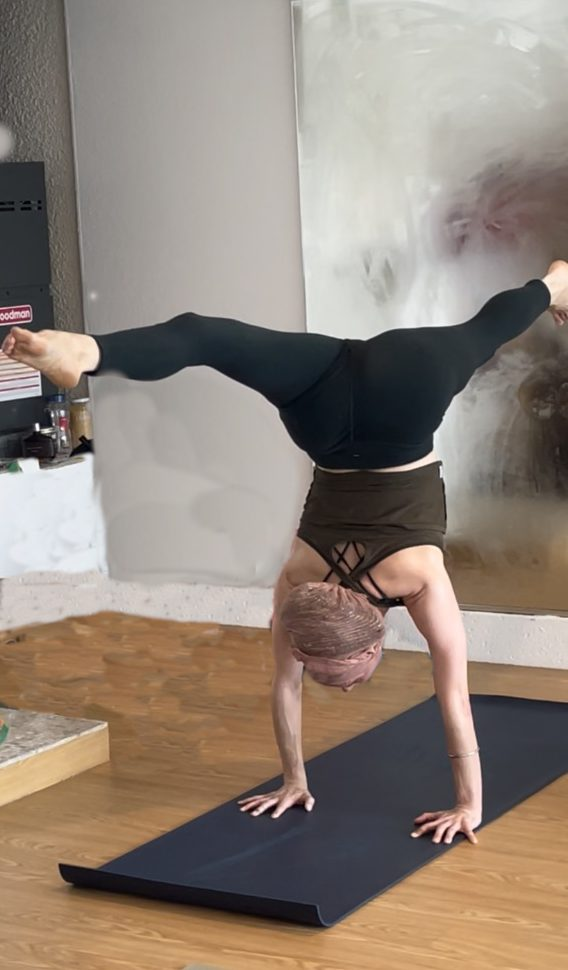
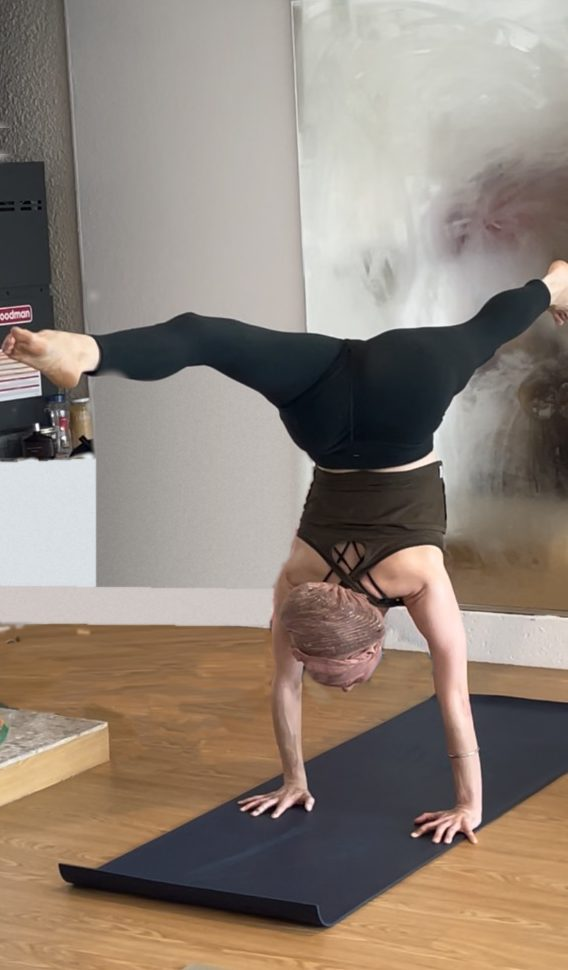
Touch up wall, baseboard and floor in handstand gallery photo

diff --git a/scripts/retouch_handstand.py b/scripts/retouch_handstand.py
@@ -1,0 +1,93 @@
+import sys
+import numpy as np
+from PIL import Image, ImageDraw, ImageFilter
+
+"""Rebuild the wall, baseboard and floor where the bags were painted out of
+the handstand photo. Usage: retouch_handstand.py <cleaned up.png> <retouched.png>"""
+src, out = sys.argv[1], sys.argv[2]
+full = Image.open(src).convert("RGB")
+OX, OY = 182, 130                      # gallery crop origin
+im = full.crop((OX, OY, 750, 1100))
+a = np.asarray(im).astype(float)
+H, W, _ = a.shape
+rng = np.random.default_rng(7)
+
+def noise(sd, blur=1.0):
+    n = rng.normal(0, sd, (H, W)).astype(np.float32)
+    img = Image.fromarray(((n + 128).clip(0, 255)).astype(np.uint8)).filter(ImageFilter.GaussianBlur(blur))
+    return (np.asarray(img).astype(float) - 128)[..., None]
+
+def poly_mask(pts, feather=1.5):
+    m = Image.new("L", (W, H), 0)
+    ImageDraw.Draw(m).polygon(pts, fill=255)
+    return np.asarray(m.filter(ImageFilter.GaussianBlur(feather))).astype(float)[..., None] / 255
+
+def key_not_swaran():
+    mx, mn = a.max(2), a.min(2)
+    luma = a.mean(2)
+    k = ((mx - mn) < 30) & (luma > 125)
+    m = Image.fromarray((k * 255).astype(np.uint8)).filter(ImageFilter.MinFilter(3)).filter(ImageFilter.GaussianBlur(1))
+    return np.asarray(m).astype(float)[..., None] / 255
+
+out_a = a.copy()
+def apply(fill, mask):
+    global out_a
+    out_a = out_a * (1 - mask) + fill * mask
+
+# 1. Grey wall column: per-column colour from the clean part above her legs.
+col = a[150:300, :, :].mean(0)                       # (W,3)
+panel = np.broadcast_to(col[None], (H, W, 3)).copy()
+panel = np.asarray(Image.fromarray(panel.clip(0, 255).astype(np.uint8)).filter(ImageFilter.BoxBlur(6))).astype(float)
+panel += noise(3.5, 0.8)
+pm = poly_mask([(95, 360), (330, 360), (330, 589), (95, 589)], 0.8) * key_not_swaran()
+apply(panel, pm)
+
+# 2. White alcove below the heater shelf: smooth it out.
+white = np.zeros_like(a)
+white[:] = np.array([224, 229, 234])
+grad = np.linspace(0, -10, H)[:, None, None]          # slightly darker going down
+white = white + grad + noise(2.5, 0.8)
+apply(white, poly_mask([(0, 462), (95, 458), (95, 586), (0, 586)], 0.8))
+
+# 3. Baseboard: a clean straight strip.
+base = np.zeros_like(a); base[:] = np.array([207, 199, 195]); base += noise(3, 0.8)
+bm = np.maximum(poly_mask([(0, 585), (300, 589), (300, 627), (0, 623)], 0.7) * key_not_swaran(),
+                poly_mask([(0, 585), (262, 589), (262, 626), (0, 623)], 0.7))
+apply(base, bm)
+# soft shadow line where baseboard meets floor
+shadow = out_a * 0.82
+apply(shadow, poly_mask([(0, 621), (300, 625), (300, 628), (0, 624)], 0.8) * key_not_swaran() * 0.7)
+
+# 4. Floor: mirror clean boards from just below the old bag area upward,
+# stretched sideways (the grain runs left-right, so the stretch doesn't show).
+SEAM = 708                                            # first row of untouched floor
+floor = out_a.copy()
+xs = np.linspace(112, 245, 300).astype(int)           # clean boards between hearth and mat
+for y in range(600, SEAM):
+    sy = SEAM + (SEAM - y)
+    floor[y, 0:300] = a[sy, xs]
+seam_fade = np.ones((H, 1, 1))
+seam_fade[SEAM - 12:SEAM + 4, 0, 0] = np.linspace(1, 0, 16)
+fm = poly_mask([(0, 624), (264, 627), (264, SEAM + 4), (0, SEAM + 4)], 1.5)
+# keep her arm and head: skip skin-tone / dark pixels near her
+mx, mn, luma = a.max(2), a.min(2), a.mean(2)
+skin = (a[..., 0] > 185) & ((a[..., 0] - a[..., 2]) > 25)
+dark = luma < 70
+keep = Image.fromarray(((skin | dark) * 255).astype(np.uint8))
+keep = keep.filter(ImageFilter.MaxFilter(5)).filter(ImageFilter.GaussianBlur(1.2))
+keep = np.asarray(keep).astype(float)[..., None] / 255
+apply(floor, fm * seam_fade * (1 - keep))
+apply(out_a * 0.8, poly_mask([(0, 623), (262, 626), (262, 629), (0, 626)], 0.8) * 0.6)
+
+# 5. Two stray grey dots left of the heater.
+for (cx, cy, r) in [(3, 140, 9), (93, 296, 6)]:
+    y0, y1, x0, x1 = max(cy - r, 0), cy + r, max(cx - r, 0), cx + r
+    patch = Image.fromarray(out_a[y0:y1, x0:x1].clip(0, 255).astype(np.uint8)).filter(ImageFilter.MedianFilter(9))
+    out_a[y0:y1, x0:x1] = np.asarray(patch)
+
+# stray dot on the textured wall at the left edge: copy wall from just above it
+out_a[128:154, 0:16] = a[100:126, 0:16]
+
+res = Image.fromarray(out_a.clip(0, 255).astype(np.uint8))
+full.paste(res, (OX, OY))
+full.save(out)

diff --git a/scripts/process_images.py b/scripts/process_images.py
@@ -72,10 +72,11 @@ JOBS = [
     # person) and the bottom edge (a stray pink item).
     ("IMG_3198 (1).JPG", "standing-twist-home", (80, 0, 1536, 2180)),
     # Phone screenshot of a video frame, with the pile of bags behind her
-    # painted out in GIMP (exported from the "cleaned up" .xcf). The crop
+    # painted out in GIMP (exported from the "cleaned up" .xcf), then the
+    # wall, baseboard and floor rebuilt by scripts/retouch_handstand.py. The crop
     # drops the phone's top bar and the film strip, and the left edge clears
     # the teacher standing beside her.
-    ("4434722A-CDDB-4C2A-96B2-9223BB15BA2E cleaned up.png", "arm-balance-class", (182, 130, 750, 1100)),
+    ("4434722A-CDDB-4C2A-96B2-9223BB15BA2E retouched.png", "arm-balance-class", (182, 130, 750, 1100)),
     # Narrow column around Swaran; the students around her are cut out.
     ("View recent photos 2.PNG", "standing-balance-class", (374, 464, 508, 868)),
 ]
